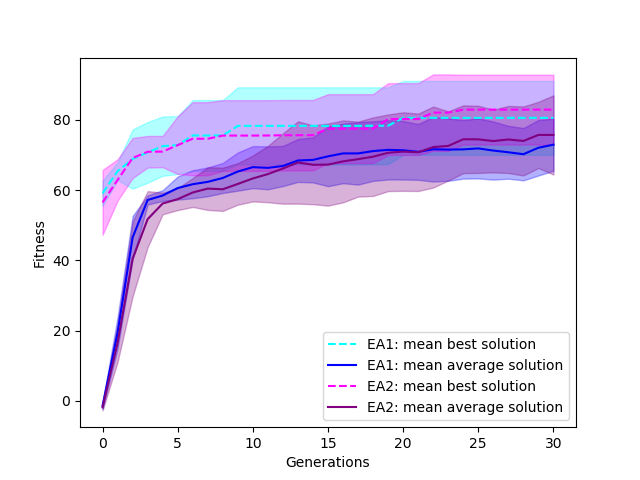
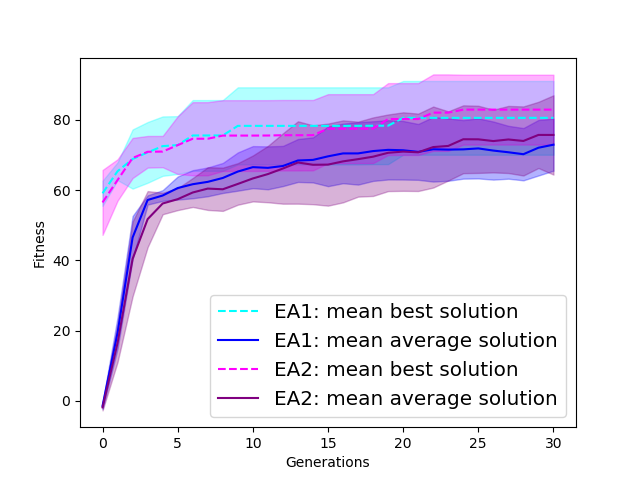
plots

Changed region(s): [[0.3438, 0.625, 0.9062, 0.875]]

diff --git a/visualize_plots.py b/visualize_plots.py
@@ -55,14 +55,14 @@ def line_plot(results, enemy):
         plt.fill_between(range(len(mean_average)), lower_bound_avg, upper_bound_avg, alpha=.3, color=colors[i*2+1])
 
 
-    plt.legend(['EA1: mean best solution', 'EA1: mean average solution', 'EA2: mean best solution', 'EA2: mean average solution'])
+    plt.legend(['EA1: mean best solution', 'EA1: mean average solution', 'EA2: mean best solution', 'EA2: mean average solution'], fontsize='x-large')
     plt.savefig('results/plots/lineplot_enemy{}'.format(enemy))
     plt.show()
     
 
 
 if __name__ == "__main__":
-    enemy = 1
+    enemy = 3
     # results enemy 1 mutation normal
     results_files_1 = load_files('results/task1/', enemy, 'uniform')
     results_1 = preprocess_results(results_files_1)
